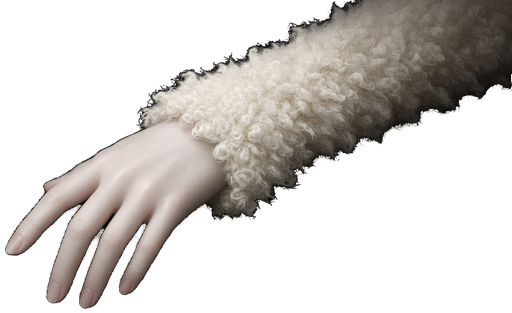
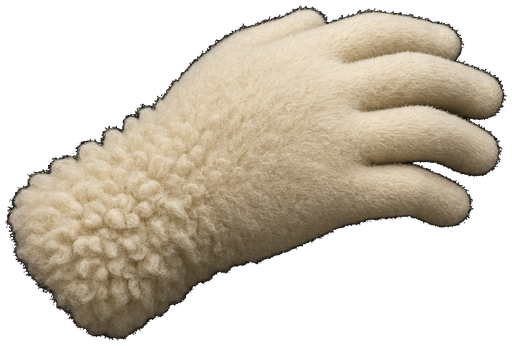
Add thighs (elf/orc/hobbit/north), lizard limbs, sheep F arms/feet, south M arms

diff --git a/NOTES.md b/NOTES.md
@@ -29,3 +29,4 @@
 - 2026-09-13z: elf F a hand L/R (mirror; forearm cropped at wrist via principal-axis width min); hobbit M a calf L/R (mirror; wool sock kept); human south F a upperarm L/R (mirror; woven armband kept). rembg u2net alpha + original RGB composite. eje largo 512. RGBA.
 - 2026-09-13aa: elf M a hand L/R (mirror; overwrite); human north F a foot-bare L/R (mirror); sheepfolk M a calf L/R (mirror; cropped from full-body standing figure: calf+ankle wool cuff+hoof tip). sheep M calf: cropped full-body to lower leg y=448:720 x=600:752 (calf+ankle wool cuff+hoof tip); kept back wool ridge with cuff. rembg u2net alpha + original RGB composite. eje largo 512. RGBA.
 - 2026-09-13ab: elf F a hand L/R (mirror; forearm cropped at wrist via principal-axis width min); hobbit M a calf L/R (mirror; wool sock kept); human south F a upperarm L/R (mirror; woven armband kept); human south M a foot-bare L/R (mirror); hobbit F a upperarm L/R (mirror; short sleeve + elbow kept); orc F a calf L/R (mirror; smooth olive + leather wrap via rembg alpha + original RGB). rembg u2net alpha + original RGB composite. eje largo 512. RGBA.
+- 2026-09-13ac: human north M a thigh L/R (mirror); sheep F a forearm L/R (mirror); lizard M a hand L/R (mirror; green scales via rembg alpha + original RGB); elf M a thigh L/R (mirror); orc F a thigh L/R (mirror; olive via rembg alpha + original RGB); hobbit M a thigh L/R (mirror); lizard M a upperarm L/R (mirror; overwrite; green scales); sheep F a hand L/R (mirror; overwrite); human south M a upperarm L/R (mirror); orc M a thigh L/R (mirror; olive); sheep F a foot-bare L/R (mirror); lizard M a calf L/R (mirror; green scales); lizard F a upperarm L/R (mirror; green scales); human south M a forearm L/R (mirror). rembg u2net alpha + original RGB composite. eje largo 512. RGBA.
